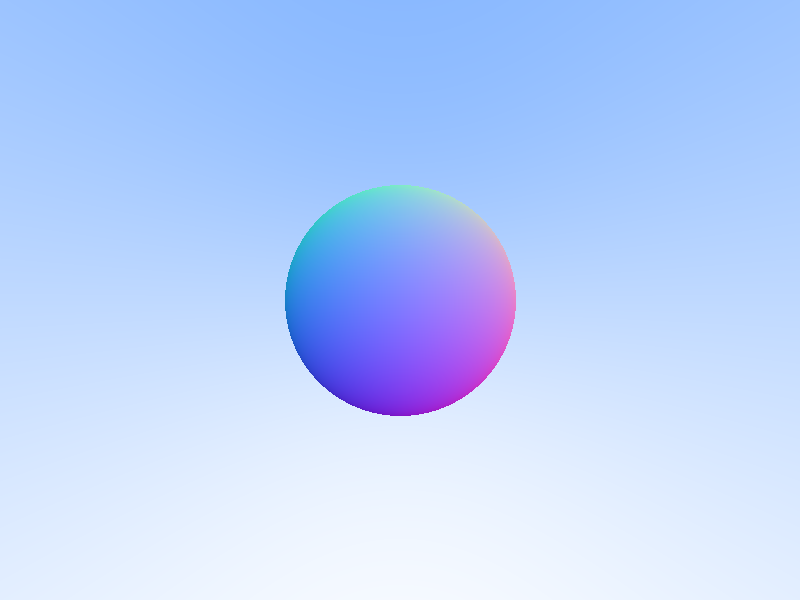
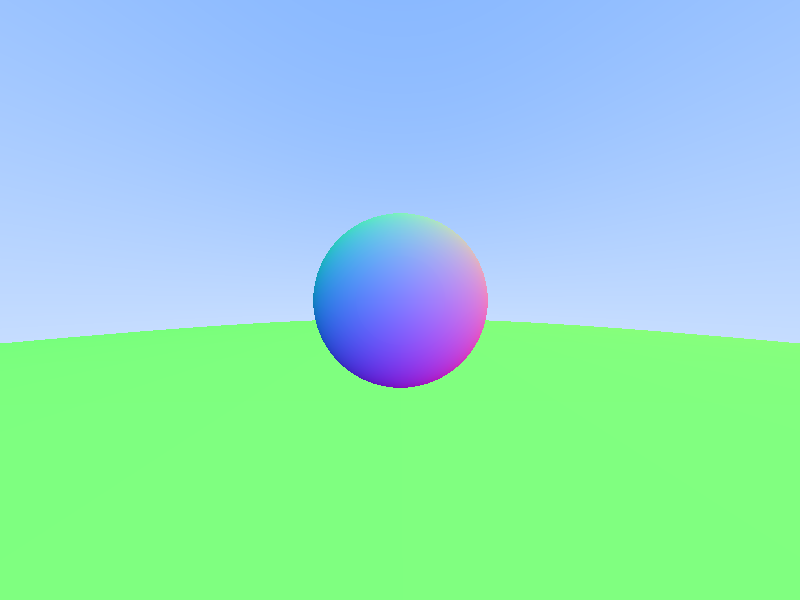
make scene support, raytraceable object interface

diff --git a/Raytracer/Main.cpp b/Raytracer/Main.cpp
@@ -6,34 +6,20 @@
 #include "Image.h"
 #include "Color32.h"
 #include "Ray.h"
+#include "Scene.h"
+#include "Sphere.h"
 
-float doesHitSphere(const glm::vec3& center, float radius, const Ray& ray) {
-    using namespace glm;
-    auto oc = ray.getOrigin() - center;
-    auto a = dot(ray.getDirection(), ray.getDirection());
-    auto b = 2.f * dot(oc, ray.getDirection());
-    auto c = dot(oc, oc) - radius * radius;
-    auto discriminant = b * b - 4 * a * c;
-    if (discriminant < 0) {
-        return -1.f;
-    }
-    else {
-        return (-b - sqrt(discriminant)) / (2.f * a);
-    }
-}
-
-glm::vec3 getColorFromRay(const Ray& ray) {
+glm::vec3 getColorFromRay(const Scene& scene, const Ray& ray) {
     using namespace glm;
 
-    vec3 spherePos(0, 0, -1);
-    auto t = doesHitSphere(spherePos, 0.5, ray);
-    if(t > 0) {
-        vec3 normal = normalize(ray.getPoint(t) - spherePos);
-        return 0.5f * (normal + vec3(1));
+    auto hit = scene.getHitInfo(ray);
+    
+    if(hit != nullptr) {
+        return 0.5f * (hit->getNormal() + vec3(1));
     }
     //return a gradient from blue to white
     auto direction = normalize(ray.getDirection());
-    t = 0.5f * (direction.y + 1.f);
+    auto t = 0.5f * (direction.y + 1.f);
     return (1.f - t) * vec3(1) + t * vec3(0.5f, 0.7f, 1.f);
 }
 
@@ -42,6 +28,10 @@ int main(int argc, char **argv) {
     using namespace glm;
 
     Image testImage(800, 600, 4);
+
+    Scene scene;
+    scene.addObject(make_unique<Sphere>(Sphere(vec3(0, 0, -1), 0.4f)));
+    scene.addObject(make_unique<Sphere>(Sphere(vec3(0, -100.5f, -1), 100)));
 
     vec3 origin(0);
     vec3 target(0, 0, -1.f);
@@ -61,7 +51,7 @@ int main(int argc, char **argv) {
 
             Ray ray(origin, direction);
 
-            auto color = getColorFromRay(ray);
+            auto color = getColorFromRay(scene, ray);
 
             testImage.setPixel(x, y, Color32(color.r, color.g, color.b, 1.0f));
 

diff --git a/Raytracer/Sphere.cpp b/Raytracer/Sphere.cpp
@@ -1,0 +1,31 @@
+#include "Sphere.h"
+
+std::unique_ptr<HitInfo> Sphere::getHitInfo(const Ray& ray, const float minDistance, const float maxDistance) const
+{
+    using namespace glm;
+    auto oc = ray.getOrigin() - center;
+    auto a = dot(ray.getDirection(), ray.getDirection());
+    auto b = 2.f * dot(oc, ray.getDirection());
+    auto c = dot(oc, oc) - radius * radius;
+    auto discriminant = b * b - 4 * a * c;
+
+    if (discriminant > 0) {
+        auto sqrtDiscriminant = sqrt(discriminant);
+        auto twoA = 2.f * a;
+
+        auto solution = (-b - sqrtDiscriminant) / twoA;
+
+        if (solution > minDistance && solution < maxDistance) {
+            auto location = ray.getPoint(solution);
+            return std::make_unique<HitInfo>(HitInfo(solution, location, normalize(location - center)));
+        }
+
+        solution = (-b - sqrtDiscriminant) / twoA;
+        if (solution > minDistance && solution < maxDistance) {
+            auto location = ray.getPoint(solution);
+            return std::make_unique<HitInfo>(HitInfo(solution, location, normalize(location - center)));
+        }
+    }
+
+    return std::unique_ptr<HitInfo>(nullptr);
+}

diff --git a/Raytracer/Scene.cpp b/Raytracer/Scene.cpp
@@ -1,0 +1,30 @@
+#include "Scene.h"
+
+#include <limits>
+
+void Scene::addObject(std::unique_ptr<Object> object)
+{
+    objects.push_back(std::move(object));
+}
+
+std::unique_ptr<HitInfo> Scene::getHitInfo(const Ray & ray) const
+{
+    auto closest_hit = std::unique_ptr<HitInfo>(nullptr);
+    float closest = std::numeric_limits<float>::max();
+
+    for (auto i = objects.begin(); i != objects.end(); ++i) {
+        auto hit = (*i)->getHitInfo(ray, 0, closest);
+        if (hit != nullptr) {
+            if (closest_hit == nullptr) {
+                closest_hit = std::move(hit);
+                closest = closest_hit->getDistance();
+                continue;
+            }
+            if (hit->getDistance() < closest_hit->getDistance()) {
+                closest_hit = std::move(hit);
+                closest = closest_hit->getDistance();
+            }
+        }
+    }
+    return closest_hit;
+}

diff --git a/Raytracer/HitInfo.h b/Raytracer/HitInfo.h
@@ -1,0 +1,21 @@
+#pragma once
+
+#include <glm\glm.hpp>
+
+class HitInfo {
+
+    float distance;
+    glm::vec3 location;
+    glm::vec3 normal;
+
+public:
+    HitInfo(const float distance, const glm::vec3& location, const glm::vec3& normal) :
+        distance(distance),
+        location(location),
+        normal(normal) {}
+    
+    float getDistance() const;
+    glm::vec3 getLocation() const;
+    glm::vec3 getNormal() const;
+    
+};

diff --git a/Raytracer/Sphere.h b/Raytracer/Sphere.h
@@ -1,0 +1,15 @@
+#pragma once
+
+#include "Object.h"
+
+class Sphere : public Object {
+    glm::vec3 center;
+    float radius;
+
+public:
+    Sphere(const glm::vec3& center, const float radius) :
+        center(center),
+        radius(radius) {}
+
+    std::unique_ptr<HitInfo> getHitInfo(const Ray& ray, const float minDistance, const float maxDistance) const override;
+};

diff --git a/Raytracer/Scene.h b/Raytracer/Scene.h
@@ -1,0 +1,19 @@
+#pragma once
+
+#include <vector>
+#include <memory>
+#include "Object.h"
+
+class Scene {
+    
+    std::vector<std::unique_ptr<Object>> objects;
+
+public:
+    Scene() : objects() {}
+
+    void addObject(std::unique_ptr<Object> object);
+
+    std::unique_ptr<HitInfo> getHitInfo(const Ray& ray) const;
+
+
+};

diff --git a/Raytracer/Ray.cpp b/Raytracer/Ray.cpp
@@ -10,7 +10,7 @@ glm::vec3 Ray::getDirection() const
     return direction;
 }
 
-glm::vec3 Ray::getPoint(const float t) const
+glm::vec3 Ray::getPoint(const float distance) const
 {
-    return origin + direction * t;
+    return origin + direction * distance;
 }

diff --git a/Raytracer/Object.h b/Raytracer/Object.h
@@ -1,0 +1,11 @@
+#pragma once
+
+#include <memory>
+#include "HitInfo.h"
+#include "Ray.h"
+
+class Object {
+
+public:
+    virtual std::unique_ptr<HitInfo> getHitInfo(const Ray& ray, const float minDistance, const float maxDistance) const = 0;
+};

diff --git a/Raytracer/HitInfo.cpp b/Raytracer/HitInfo.cpp
@@ -1,0 +1,16 @@
+#include "HitInfo.h"
+
+glm::vec3 HitInfo::getNormal() const
+{
+    return normal;
+}
+
+float HitInfo::getDistance() const
+{
+    return distance;
+}
+
+glm::vec3 HitInfo::getLocation() const
+{
+    return location;
+}

diff --git a/Raytracer/Ray.h b/Raytracer/Ray.h
@@ -14,6 +14,6 @@ public:
 
     glm::vec3 getOrigin() const;
     glm::vec3 getDirection() const;
-    glm::vec3 getPoint(const float t) const;
+    glm::vec3 getPoint(const float distance) const;
 
 };
